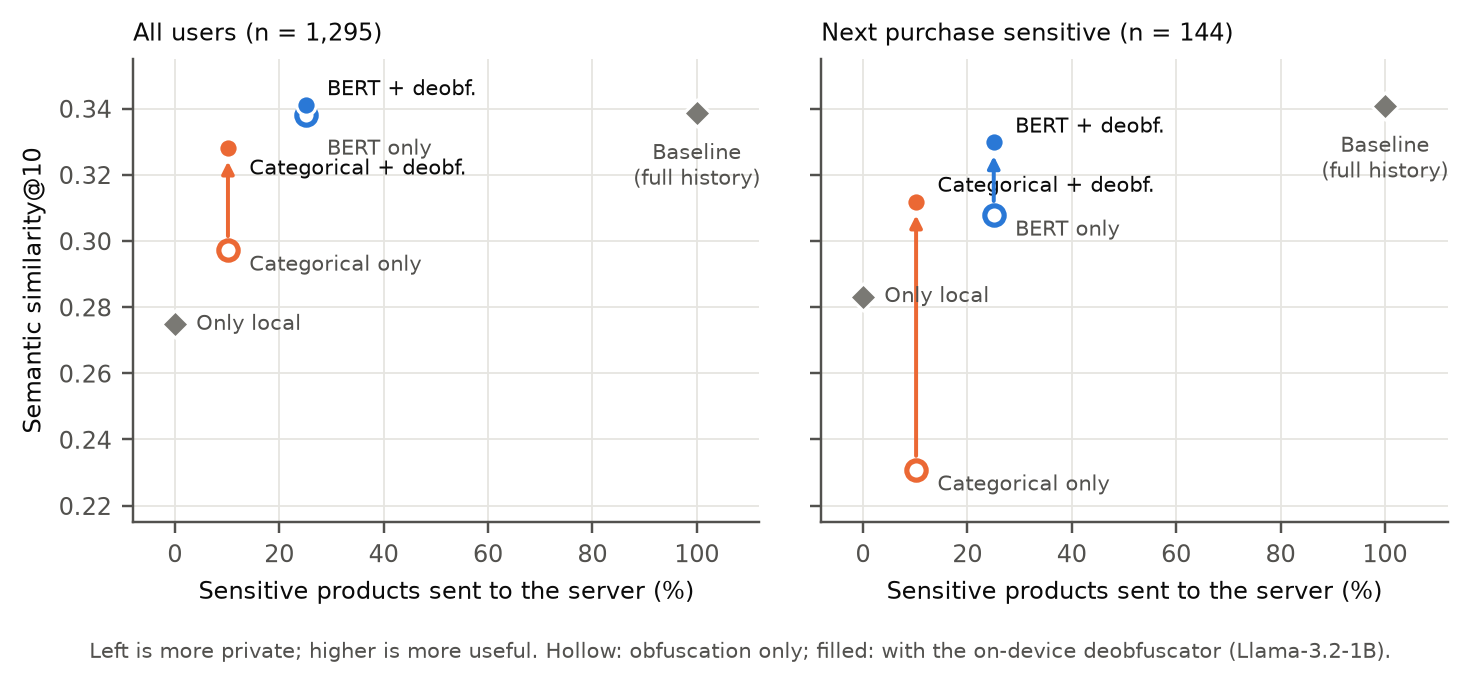
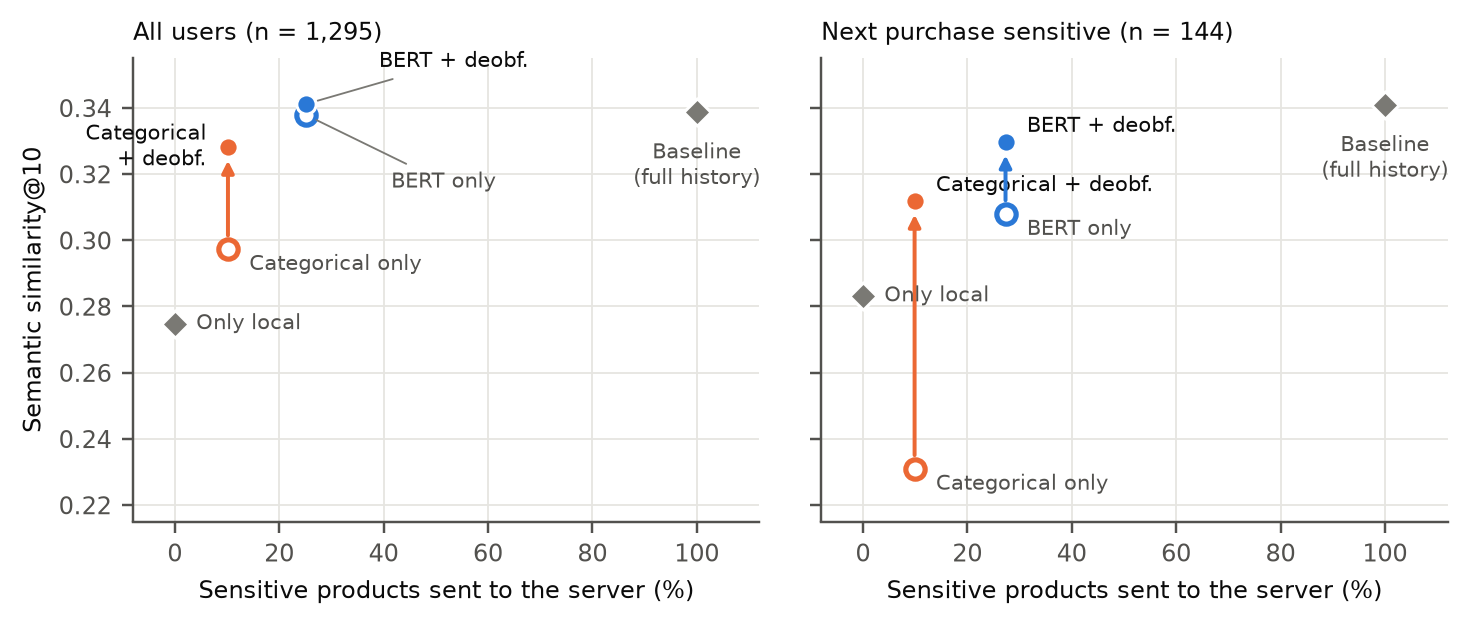
Release obfuscator training labels; README artefacts section; training script reads released format; updated figures

diff --git a/scripts/train_obfuscator.py b/scripts/train_obfuscator.py
@@ -2,8 +2,9 @@
 w_c = N / (2 N_c)), 5 epochs, lr 2e-5, weight decay 0.01, batch 16, inputs truncated to 256 tokens; 70/20/10 split
 stratified by label; the epoch with the best validation F1 is kept.
 
-Input: JSONL, one product per line with title, main_category, features (list) and label (1 = sensitive, 0 = nonsensitive).
-Usage: python scripts/train_obfuscator.py --data products_labelled.jsonl --out models/bert_obfuscator"""
+Input: JSONL, one product per line, either with the released fields text (already in the obfuscator's input format) and
+label ("sensitive" / "nonsensitive"), or with title, main_category, features (list) and label (1 / 0).
+Usage: python scripts/train_obfuscator.py --data data/obfuscator_training_labels.jsonl --out models/bert_obfuscator"""
 import argparse, json, os, sys
 import numpy as np, torch
 from transformers import BertTokenizer, BertForSequenceClassification
@@ -16,7 +17,8 @@ ap.add_argument("--epochs", type=int, default=5); ap.add_argument("--seed", type
 args = ap.parse_args()
 torch.manual_seed(args.seed); rng = np.random.default_rng(args.seed)
 rows = [json.loads(l) for l in open(args.data) if l.strip()]
-y = np.array([int(r["label"]) for r in rows])
+y = np.array([1 if r["label"] in (1, "1", "sensitive") else 0 for r in rows])
+text = lambda r: r["text"] if "text" in r else bert_text({"features": [], **r})
 idx = {"train": [], "val": [], "test": []}
 for c in (0, 1):  # stratified 70/20/10
     ii = rng.permutation(np.flatnonzero(y == c)); a, b = int(0.7 * len(ii)), int(0.9 * len(ii))
@@ -29,7 +31,7 @@ def batches(ii, bs, shuffle):
     ii = rng.permutation(ii) if shuffle else np.array(ii)
     for i in range(0, len(ii), bs):
         b = ii[i:i + bs]
-        enc = tok([bert_text({"features": [], **rows[j]}) for j in b], return_tensors="pt", truncation=True, padding=True, max_length=256)
+        enc = tok([text(rows[j]) for j in b], return_tensors="pt", truncation=True, padding=True, max_length=256)
         yield enc.to(dev), torch.tensor(y[b], device=dev)
 
 n_c = np.bincount(y[idx["train"]], minlength=2); w = torch.tensor(len(idx["train"]) / (2 * n_c), dtype=torch.float, device=dev)

diff --git a/README.md b/README.md
@@ -117,6 +117,7 @@ scripts/
   evaluate.py           all metrics, paired tests and the split by target type
   make_figures.py       the figures in this README and the paper
 results/                aggregate results of the paper's run (no user identifiers)
+data/                   GPT-4o labels of the obfuscator's 10,012 training products
 figures/
 ```
 
@@ -129,8 +130,8 @@ pip install -r requirements.txt
 #    https://amazon-reviews-2023.github.io/ into data/amazon2023/
 #    (<Category>.jsonl and meta_<Category>.jsonl).
 
-# 2. Obfuscator: train it on labelled products, or ask us for the trained weights.
-python scripts/train_obfuscator.py --data products_labelled.jsonl --out models/bert_obfuscator
+# 2. Obfuscator: download the fine-tuned weights (see "Released artefacts"), or train them from the released labels.
+python scripts/train_obfuscator.py --data data/obfuscator_training_labels.jsonl --out models/bert_obfuscator
 
 # 3. Pipeline (GPU; about 20 GPU-hours on one RTX A6000 for 1,295 users and three deobfuscators)
 python scripts/run_pipeline.py --data-dir data/amazon2023 --users users.txt \
@@ -147,6 +148,18 @@ authors on request; any engaged users (at least 30 reviewed products in the ten 
 **Hardware used:** 2× NVIDIA RTX A6000 (48 GB), AMD Ryzen Threadripper 3970X (32 cores), 128 GB RAM. All models are loaded from the Hugging Face Hub
 (`Qwen/Qwen3.5-9B`, `Qwen/Qwen3.5-2B`, `Qwen/Qwen3.5-4B`, `meta-llama/Llama-3.2-1B-Instruct`,
 `sentence-transformers/all-MiniLM-L6-v2`, `bert-base-uncased`). For Llama-3.2-1B we used `unsloth/Llama-3.2-1B-Instruct`, an ungated copy of the same weights.
+
+## Released artefacts
+
+| Artefact | Where |
+|---|---|
+| Code, prompts, aggregate results, figures | this repository |
+| Obfuscator training labels (10,012 products, GPT-4o, product metadata only) | `data/obfuscator_training_labels.jsonl` |
+| Fine-tuned BERT obfuscator | Hugging Face Hub: `HF_MODEL_ID` |
+
+The evaluation users' identifiers are not published. Labels for the products in their histories are available from
+the authors on request, because the list of those products would allow the selected users to be approximately
+reconstructed from the public dataset.
 
 ## Citation
 
